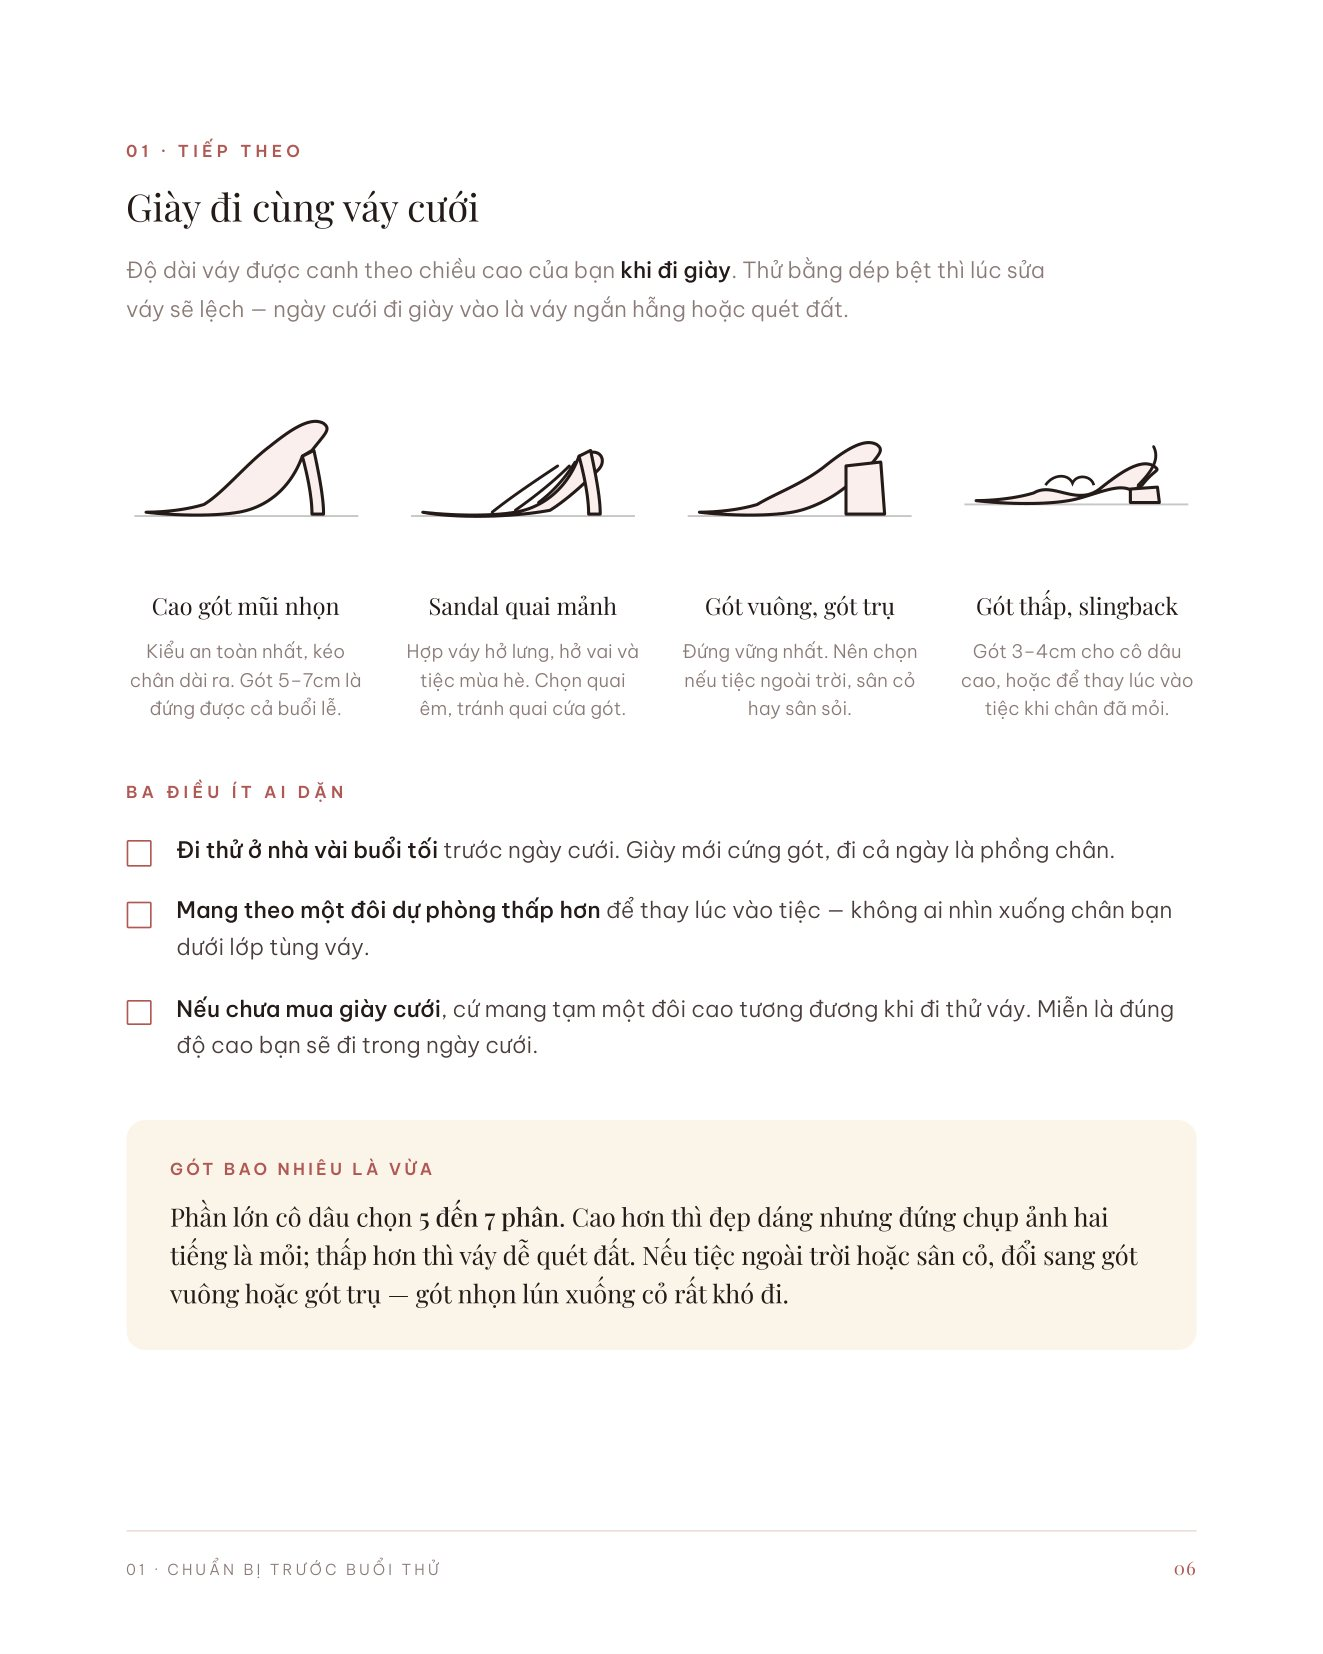
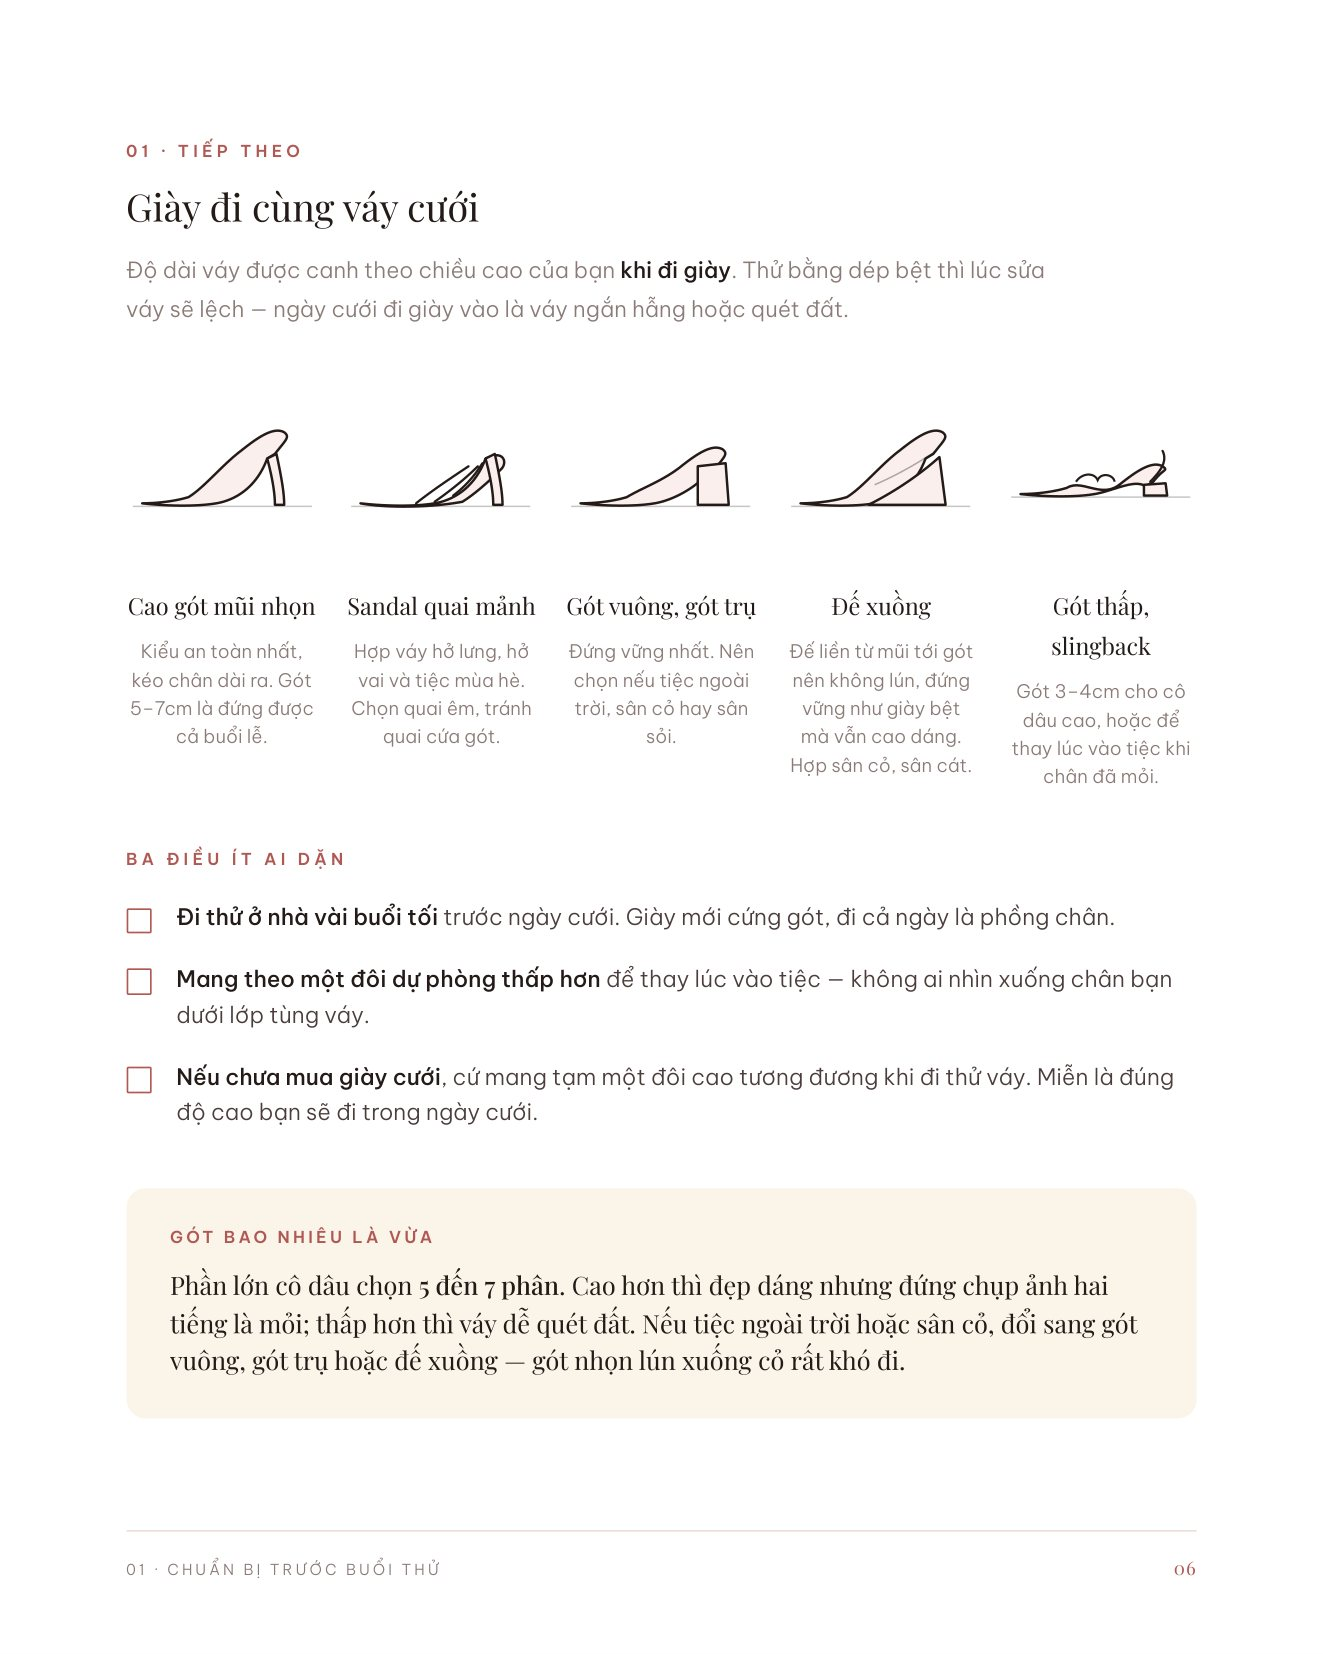
Dress Guide: them giay de xuong (5 kieu giay)

diff --git a/dress-guide.html b/dress-guide.html
@@ -4,7 +4,7 @@
 <meta charset="utf-8">
 <meta name="viewport" content="width=device-width,initial-scale=1">
 <meta name="description" content="Cẩm nang tặng cô dâu: 7 điều cần biết trước khi chọn váy cưới — Dolinhanh Bridal.">
-<script>window.__ANH__=["dress-guide/t01.jpg?v=w3", "dress-guide/t02.jpg?v=w3", "dress-guide/t03.jpg?v=w3", "dress-guide/t04.jpg?v=w3", "dress-guide/t05.jpg?v=w3", "dress-guide/t06.jpg?v=w3", "dress-guide/t07.jpg?v=w3", "dress-guide/t08.jpg?v=w3", "dress-guide/t09.jpg?v=w3", "dress-guide/t10.jpg?v=w3", "dress-guide/t11.jpg?v=w3", "dress-guide/t12.jpg?v=w3", "dress-guide/t13.jpg?v=w3", "dress-guide/t14.jpg?v=w3", "dress-guide/t15.jpg?v=w3", "dress-guide/t16.jpg?v=w3", "dress-guide/t17.jpg?v=w3", "dress-guide/t18.jpg?v=w3", "dress-guide/t19.jpg?v=w3", "dress-guide/t20.jpg?v=w3"];window.__DIEM__=[{"p": 4, "x": 0.1734, "y": 0.205, "w": 0.1416, "h": 0.0173, "nhan": "Chuẩn bị trước buổi thử", "ten": "Đồ lót nào mặc được?", "mo": "Nguyên tắc chung: màu nude, không quai, không gọng to, không đường viền. Bốn kiểu trong hình đều dùng được cho gần như mọi mẫu váy. Phần lớn váy cưới đã có corset nâng và mút đệm ngực khâu sẵn — nhiều cô dâu chỉ mặc quần lót nude là đủ.", "anh": "dress-guide/hs-dolot.jpg?v=w3", "toi": 5}, {"p": 4, "x": 0.2255, "y": 0.2635, "w": 0.3537, "h": 0.0173, "nhan": "Chuẩn bị trước buổi thử", "ten": "Giày nào đi cùng váy cưới?", "mo": "Bốn kiểu trên đều hợp váy cưới. Gót 5–7cm là mức phần lớn cô dâu chọn — đủ dáng mà vẫn đứng được cả buổi. Tiệc ngoài trời hay sân cỏ thì đổi sang gót vuông, gót trụ, vì gót nhọn lún xuống cỏ rất khó đi. Chưa mua giày cưới thì mang tạm một đôi cao tương đương khi đi thử váy.", "anh": "dress-guide/hs-giay.jpg?v=w3", "toi": 6}, {"p": 4, "x": 0.3357, "y": 0.4127, "w": 0.1988, "h": 0.0173, "nhan": "Chuẩn bị trước buổi thử", "ten": "Vì sao lại là 5 mẫu?", "mo": "Năm mẫu vừa đủ để so bốn dáng cơ bản và thêm một mẫu “lạ” cho biết, mà không loạn. Gửi trước danh sách cho studio để váy được treo sẵn — đỡ mất ba mươi phút đầu buổi chỉ để đi tìm váy."}];</script>
+<script>window.__ANH__=["dress-guide/t01.jpg?v=w4", "dress-guide/t02.jpg?v=w4", "dress-guide/t03.jpg?v=w4", "dress-guide/t04.jpg?v=w4", "dress-guide/t05.jpg?v=w4", "dress-guide/t06.jpg?v=w4", "dress-guide/t07.jpg?v=w4", "dress-guide/t08.jpg?v=w4", "dress-guide/t09.jpg?v=w4", "dress-guide/t10.jpg?v=w4", "dress-guide/t11.jpg?v=w4", "dress-guide/t12.jpg?v=w4", "dress-guide/t13.jpg?v=w4", "dress-guide/t14.jpg?v=w4", "dress-guide/t15.jpg?v=w4", "dress-guide/t16.jpg?v=w4", "dress-guide/t17.jpg?v=w4", "dress-guide/t18.jpg?v=w4", "dress-guide/t19.jpg?v=w4", "dress-guide/t20.jpg?v=w4"];window.__DIEM__=[{"p": 4, "x": 0.1734, "y": 0.205, "w": 0.1416, "h": 0.0173, "nhan": "Chuẩn bị trước buổi thử", "ten": "Đồ lót nào mặc được?", "mo": "Nguyên tắc chung: màu nude, không quai, không gọng to, không đường viền. Bốn kiểu trong hình đều dùng được cho gần như mọi mẫu váy. Phần lớn váy cưới đã có corset nâng và mút đệm ngực khâu sẵn — nhiều cô dâu chỉ mặc quần lót nude là đủ.", "anh": "dress-guide/hs-dolot.jpg?v=w4", "toi": 5}, {"p": 4, "x": 0.2255, "y": 0.2635, "w": 0.3537, "h": 0.0173, "nhan": "Chuẩn bị trước buổi thử", "ten": "Giày nào đi cùng váy cưới?", "mo": "Năm kiểu trên đều hợp váy cưới. Gót 5–7cm là mức phần lớn cô dâu chọn — đủ dáng mà vẫn đứng được cả buổi. Tiệc ngoài trời hay sân cỏ thì đổi sang gót vuông, gót trụ hoặc đế xuồng, vì gót nhọn lún xuống cỏ rất khó đi. Chưa mua giày cưới thì mang tạm một đôi cao tương đương khi đi thử váy.", "anh": "dress-guide/hs-giay.jpg?v=w4", "toi": 6}, {"p": 4, "x": 0.3357, "y": 0.4127, "w": 0.1988, "h": 0.0173, "nhan": "Chuẩn bị trước buổi thử", "ten": "Vì sao lại là 5 mẫu?", "mo": "Năm mẫu vừa đủ để so bốn dáng cơ bản và thêm một mẫu “lạ” cho biết, mà không loạn. Gửi trước danh sách cho studio để váy được treo sẵn — đỡ mất ba mươi phút đầu buổi chỉ để đi tìm váy."}];</script>
 </head>
 <body>
 <title>The Bride's Dress Guide</title>
